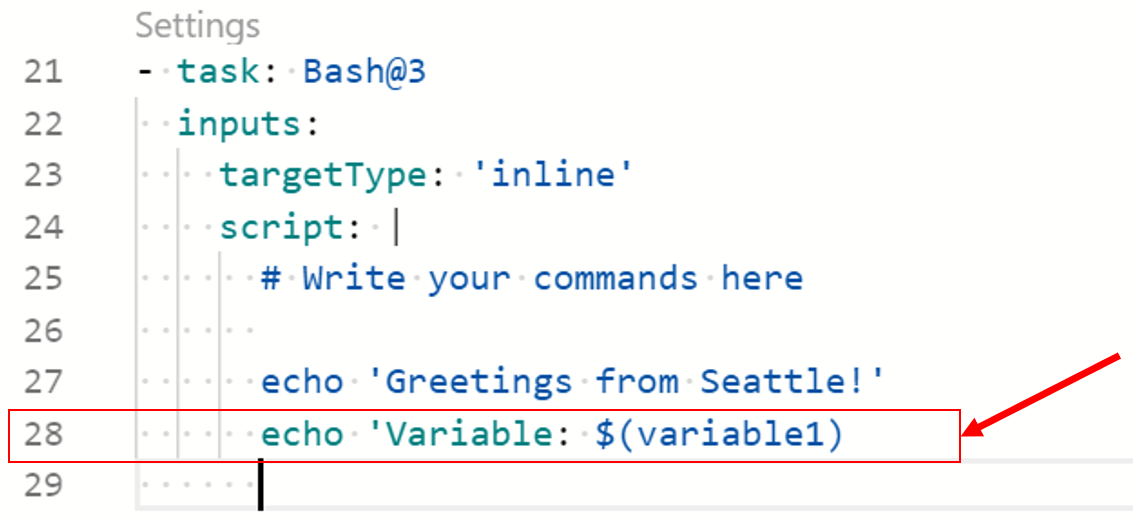
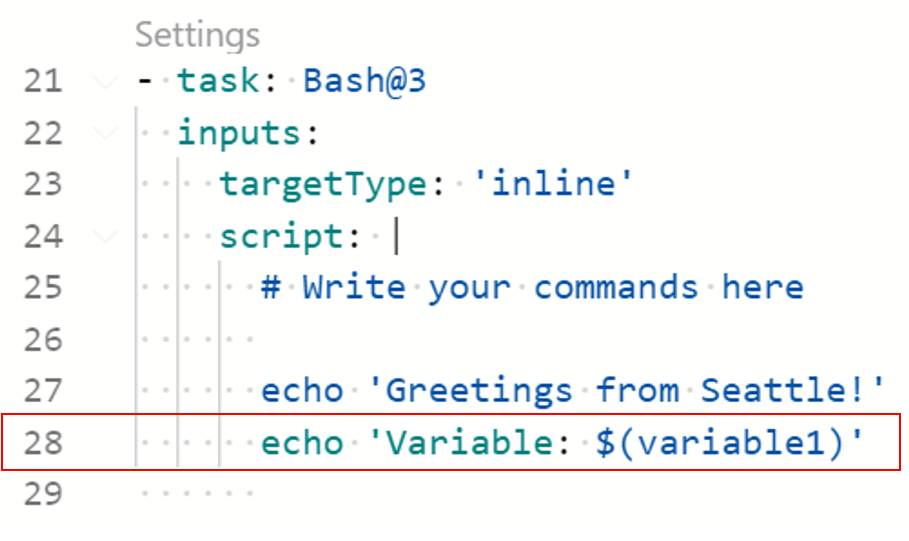
smaller additions

diff --git a/labs/lab1/lab1.md b/labs/lab1/lab1.md
@@ -1,7 +1,7 @@
 # Lab 1 - Introduction
 In Lab 1 we are starting with an introduction into Pipelines-as-Code with Azure DevOps by building a first, basic Pipeline using the Azure DevOps Website. 
 
-> Goto Azure DevOps, select your Organization and click on your previously created Project. If you have not create an Organization and a Project in Azure DevOps, please start with the preparation tasks in our [Before you start](labs/lab0/before-you-start.md) guide.
+> Goto Azure DevOps, select your Organization and click on your previously created Project. If you have not create an Organization and a Project in Azure DevOps, please start with the preparation tasks in our [Before you start](/labs/lab0/before-you-start.md) guide.
 
 ## 1.1 Create a YAML-Pipeline via GUI
 Before we can start building our first pipeline, we need a Repository in Azure DevOps. 
@@ -197,9 +197,41 @@ Let's now modify our pipeline to leverage the newly created variable.
 * Add a new line after 'Greetings from Seattle!'
 
 ```bash
-echo 'Variable: $(variable1)
+echo 'Variable: $(variable1)'
 ```
+
+Your pipeline should now look like this:
 
 ![Add variable to pipeline](img/lab1_use_variable_in_pipeline.png)
 
+Let's now save and run our pipeline to see the changes in action:
+
+* Click "Save" (top right)
+* "Commit directly to the master branch"
+* Click "Save"
+* Click "Run" (top right)
+* Run pipeline on "master" 
+* Click "Run"
+
+When you're now checking the pipeline outputs, you should see the value of your variable there:
+
+![Variable in pipeline output](img/lab1_variable_in_pipeline_output.png)
+
 ## 1.6 Check the pipeline within your repository
+
+In all our previous steps we've always modified our pipeline in the "Pipelines" > "Pipelines" section using the Pipeline Editor within our browser. But that's not the only way. One of the benefits of using a YAML-based pipeline is that it's stored within an Azure Repo.
+
+Let's now have a look on our Pipeline in our Azure Repo:
+
+* Click on "Repos"
+* Click on "Files"
+
+You should now see a file called "azure-pipelines.yml" in your repositories root directory:
+
+![Pipeline in Repo](img/lab1_pipeline_in_repo.png)
+
+You can edit the pipeline here, too, but without the additional capabilities of the Pipeline Editor we saw before:
+
+![File Editor](img/lab1_repo_file_editor.png)
+
+Let's now continue with [Lab 2](/labs/lab2/lab2.md) or go back to the [Overview page](/README.md).
